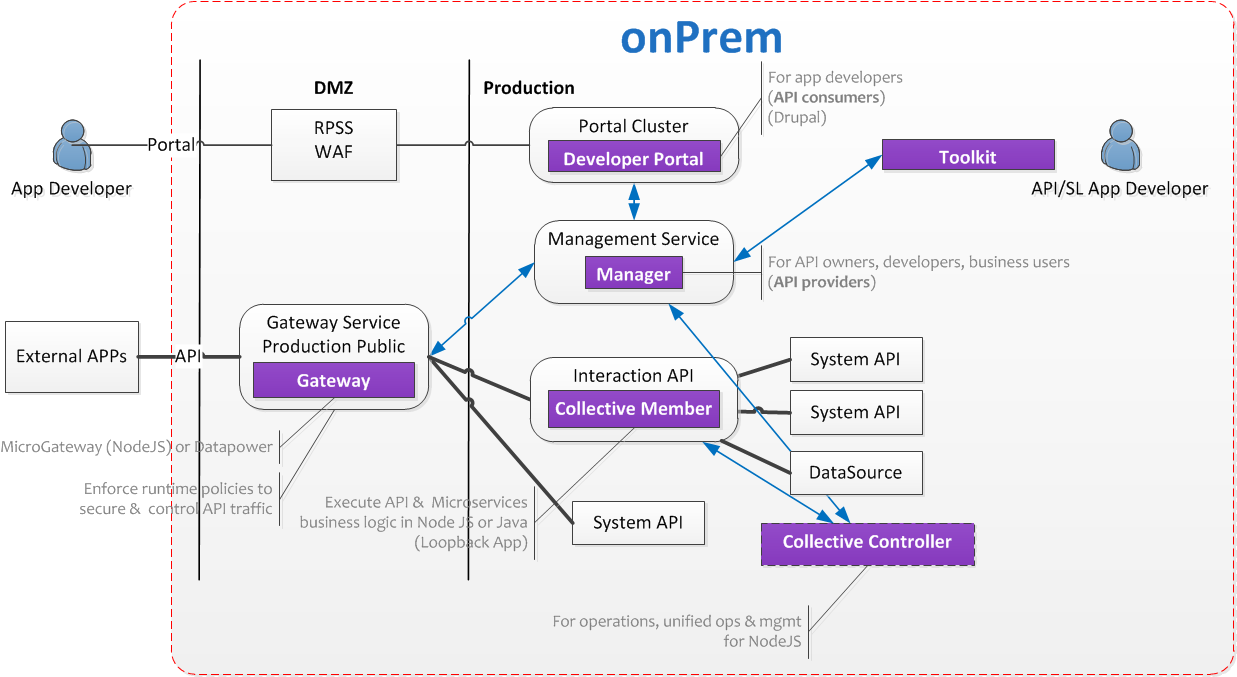
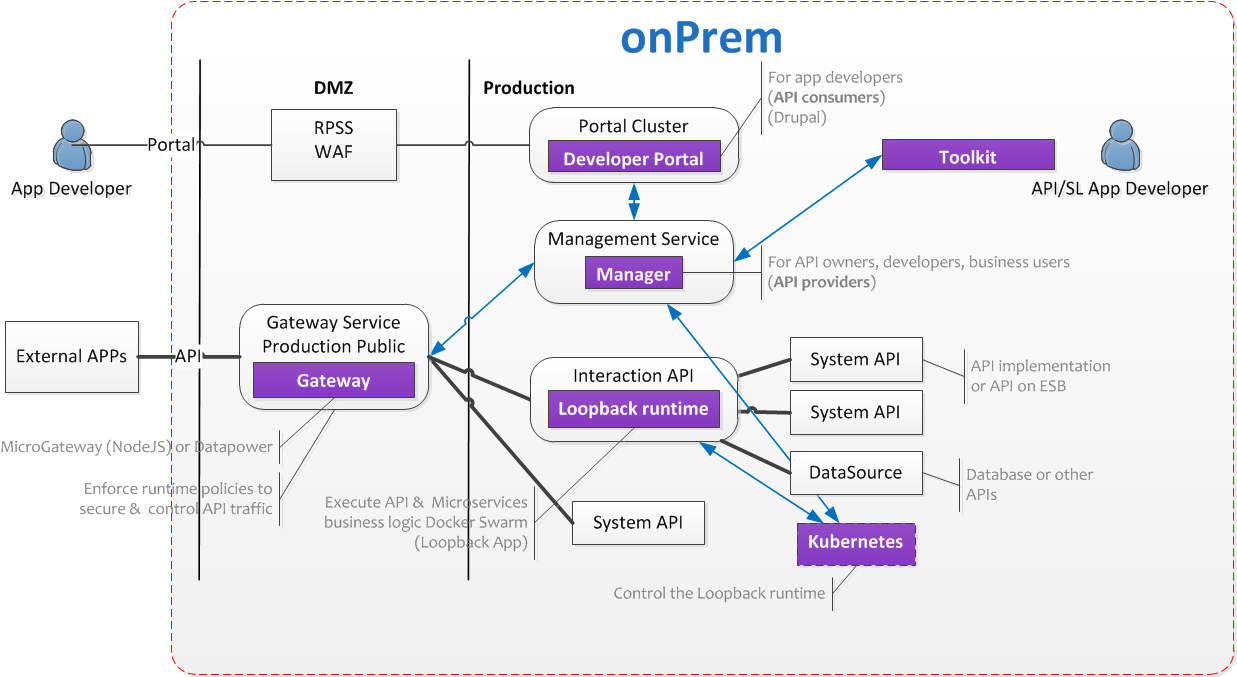
Remove collective related information

diff --git a/Lab API - Manage your APIs with API Connect/README.md b/Lab API - Manage your APIs with API Connect/README.md
@@ -63,15 +63,15 @@ The main components composing API Connect are:
 + The **Gateway** (either DataPower, either a NodeJS implementation called micro gateway in this case). The requests from apps are going through the gateway, policies are enforced and analytic are gathered.
 + The **Manager**  where the APIs are defined and governed. It also collects the analytics from the gateway. The manager can be used directly or more likely using the toolkit.
 + The **Portal**, an open source Drupal CMS - Content Management System. For the API consumers (Apps developpers), they create Apps and susbscribe to API within the portal. Based on Drupal, it is highly customizable.
-+ The **Collective member** or micro servics runtime. This is where the loopback applications are running. This component is originaly coming from StrongLoop acquisition. Loopback applications can be created in minutes to expose data from SQL or NoSQL database and aslo a good place to perform composition of APIs.
-+ Associated to the collective member is the **Collective controller** that monitors the collective member and can provide advanced feature such as auto-scaling.
++ The **Loopback runtime** or micro servics runtime. This is where the loopback applications are running. This component is originaly coming from StrongLoop acquisition. Loopback applications can be created in minutes to expose data from SQL or NoSQL database and aslo a good place to perform composition of APIs.
++ Associated to the Loopback runtime is the **Kubernetes** that monitors the Loopback runtime and can provide advanced feature such as auto-scaling.
 + The **Toolkit**, running on the API developper, it offers the same web experience as the manager to manage APIs. But this is also the only place where you can define Loopback applications. It also contains CLI to operate directly on the manager wether it is an onPremise version or Bluemix version of API Connect.
 
 >Below a sample of deployment of API Connect on premise. System API is a generic term to define an API implementation, for example running in WAS Liberty (JAX-RS) or an API exposed on another layer such as an ESB.
 ![APIC Achitecture](./images/apic-archi-on-prem.png)
 
 ## API Connect architecture in Bluemix
-Well, API Connect in Bluemix, is the same product as onPremise (or almost, notice the NodeJS runtime instead of collective member). This gives us a competitive advantage, because we have no issues at all to move from onPremise to Bluemix and vice-versa and have hybrid implementations.
+Well, API Connect in Bluemix, is the same product as onPremise (use of NodeJS for the loopback application). This gives us a competitive advantage, because we have no issues at all to move from onPremise to Bluemix and vice-versa and have hybrid implementations.
 
 >Notice the **secure gateway** component that allows to connect simply IBM Bluemix and the company IT.
 ![APIC Achitecture in Bluemix](./images/apic-archi-bmx.png)
@@ -81,7 +81,7 @@ Well, API Connect in Bluemix, is the same product as onPremise (or almost, notic
 + A **Plan**: this is where we specify the quotas and if an approval is needed to subscribe to a Product/API.
 + A **Product**: this is an aggregation of APIs, and one or many plans associated to those APIs. This is what is published to a catalog. One Product = one yaml file.
 + A **Catalog**: it's relates to a cluster of gateways and a portal. It sounds like an environment but it also contains a business dimension. For example, good names for a catalog are Sandbox, Dev, Production, CRM (for my CRM APIs exposed to a specific population), etc ...
-+ An API Connect **Cloud**: not to be confused with a cloud infrastructure/platform, it is a combination of gateways clusters, managers cluster, portal clusters and collective runtimes. Usually a customer will have one, two, sometime three or more API Connect clouds, based on its organisation and needs to separate the infrastructures.
++ An API Connect **Cloud**: not to be confused with a cloud infrastructure/platform, it is a combination of gateways clusters, managers cluster, portal clusters and loopback applications runtimes. Usually a customer will have one, two, sometime three or more API Connect clouds, based on its organisation and needs to separate the infrastructures.
 + **Assembly panel**: this is where we specify the policies to be executed in the gateway for each transactions.
 
 ## Concepts map
@@ -114,7 +114,7 @@ This chapter just illustrates one way to install the product in a very simple ca
 <br>Start the OVA in VMWare, adjust network settings and exchange keys so manager can interact with portal.
 * Toolkit
 <br>On Window   tall api-connect toolkit using npm
-* Collective
+* Loopbacl application
 <br>Install controller (WAS liberty) + IHS + member (nodeJS) and configure IHS Plugin
 
 # Steps for the lab
